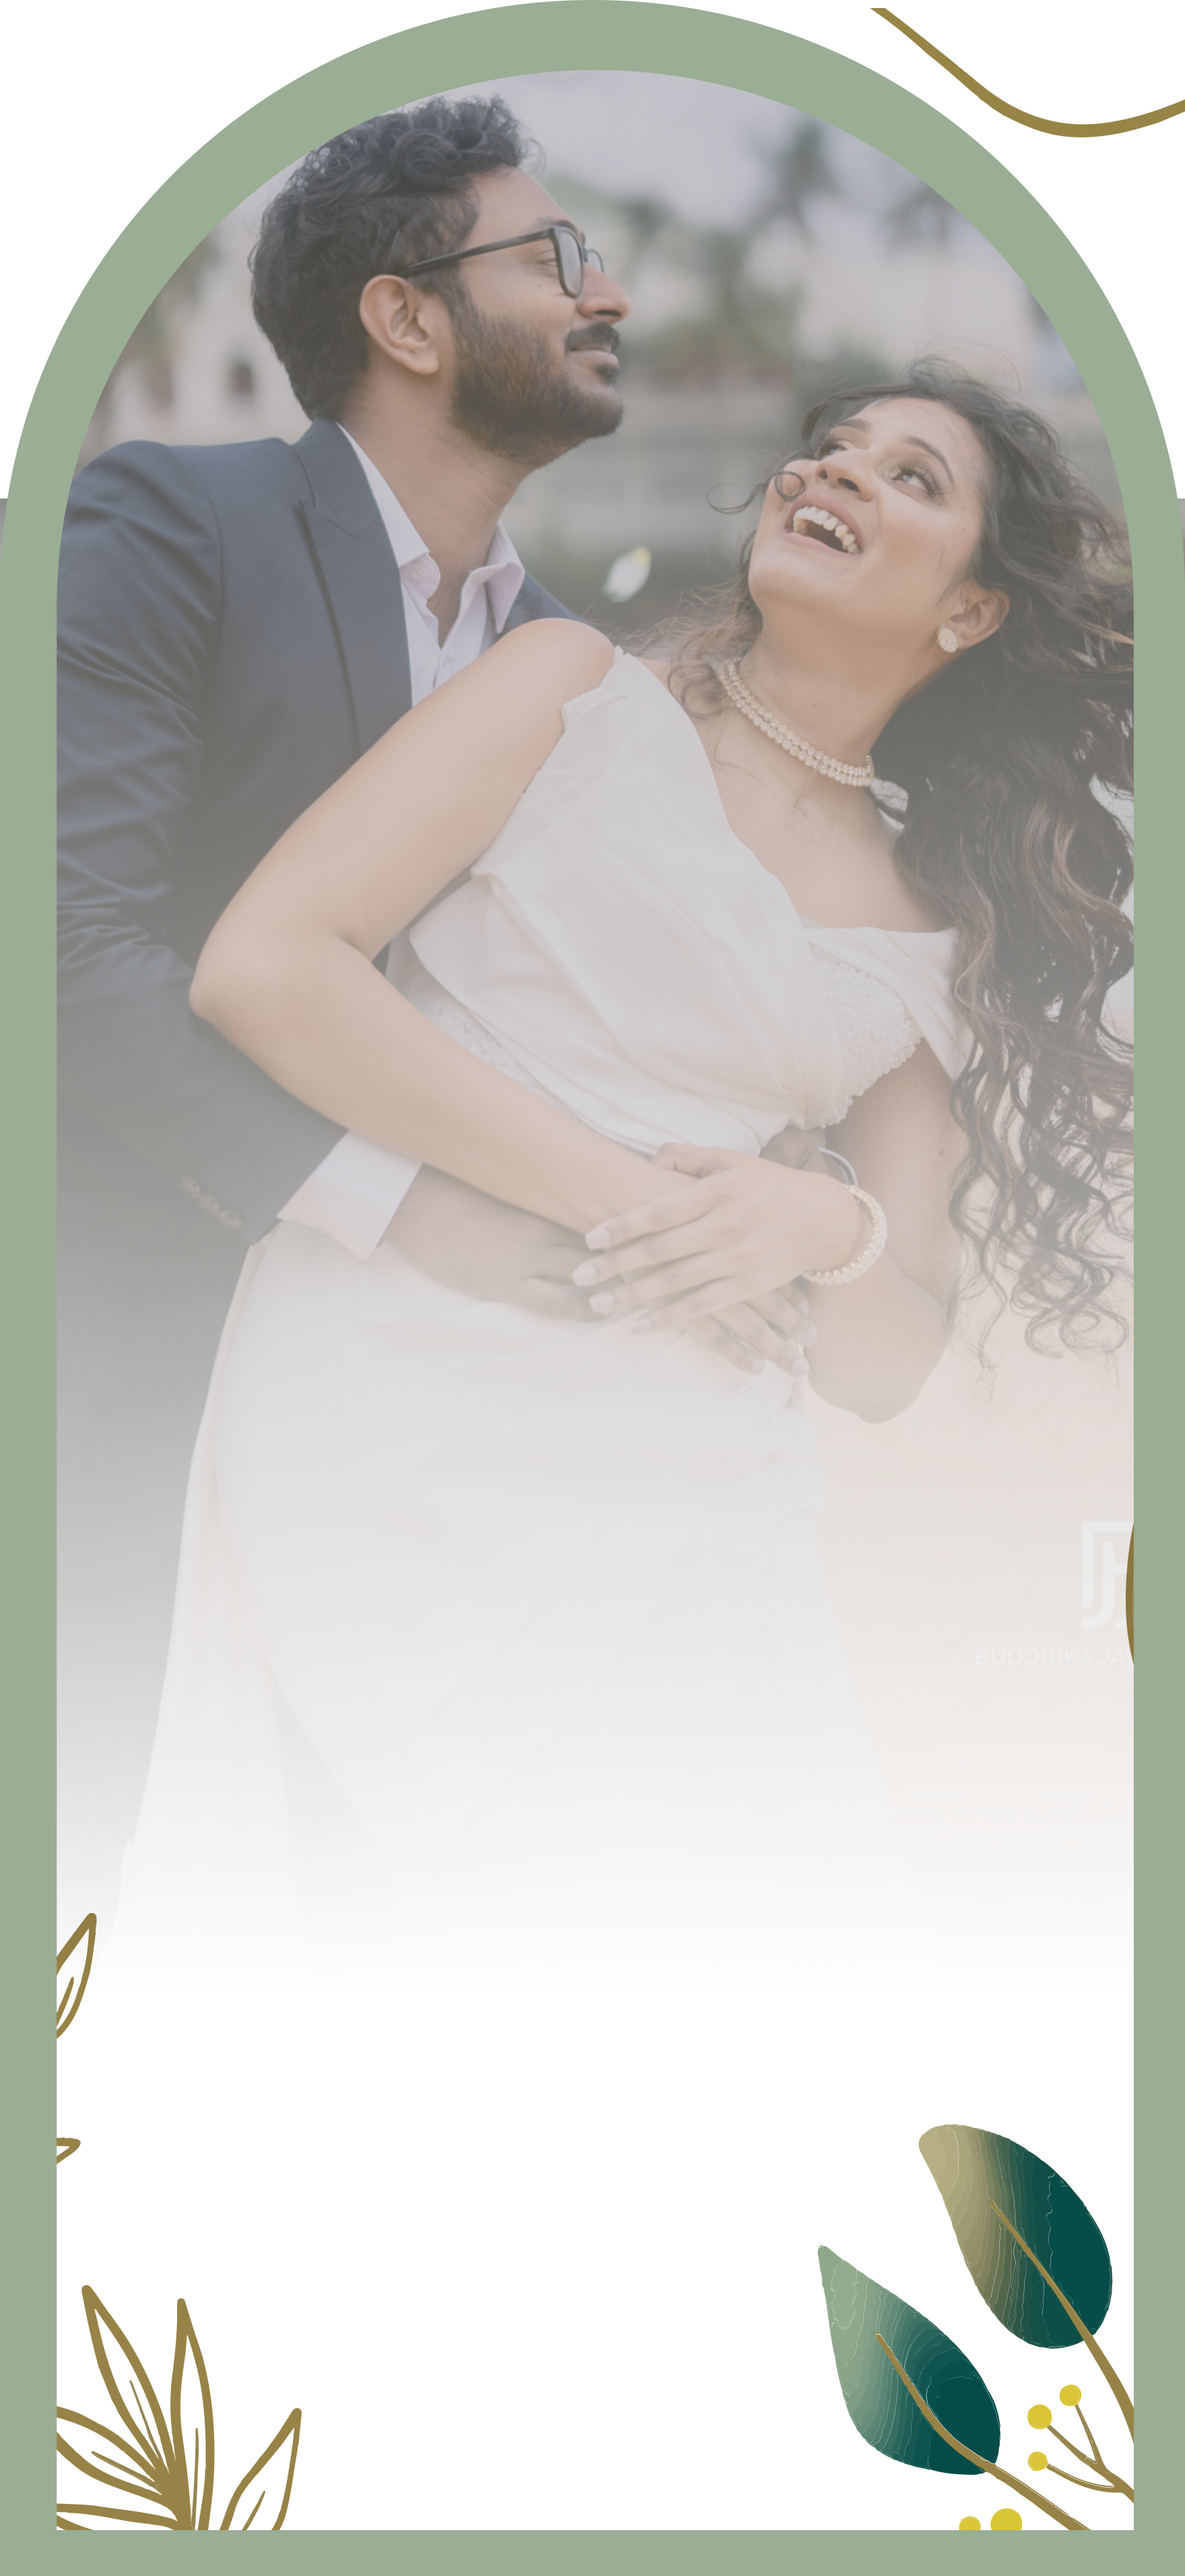
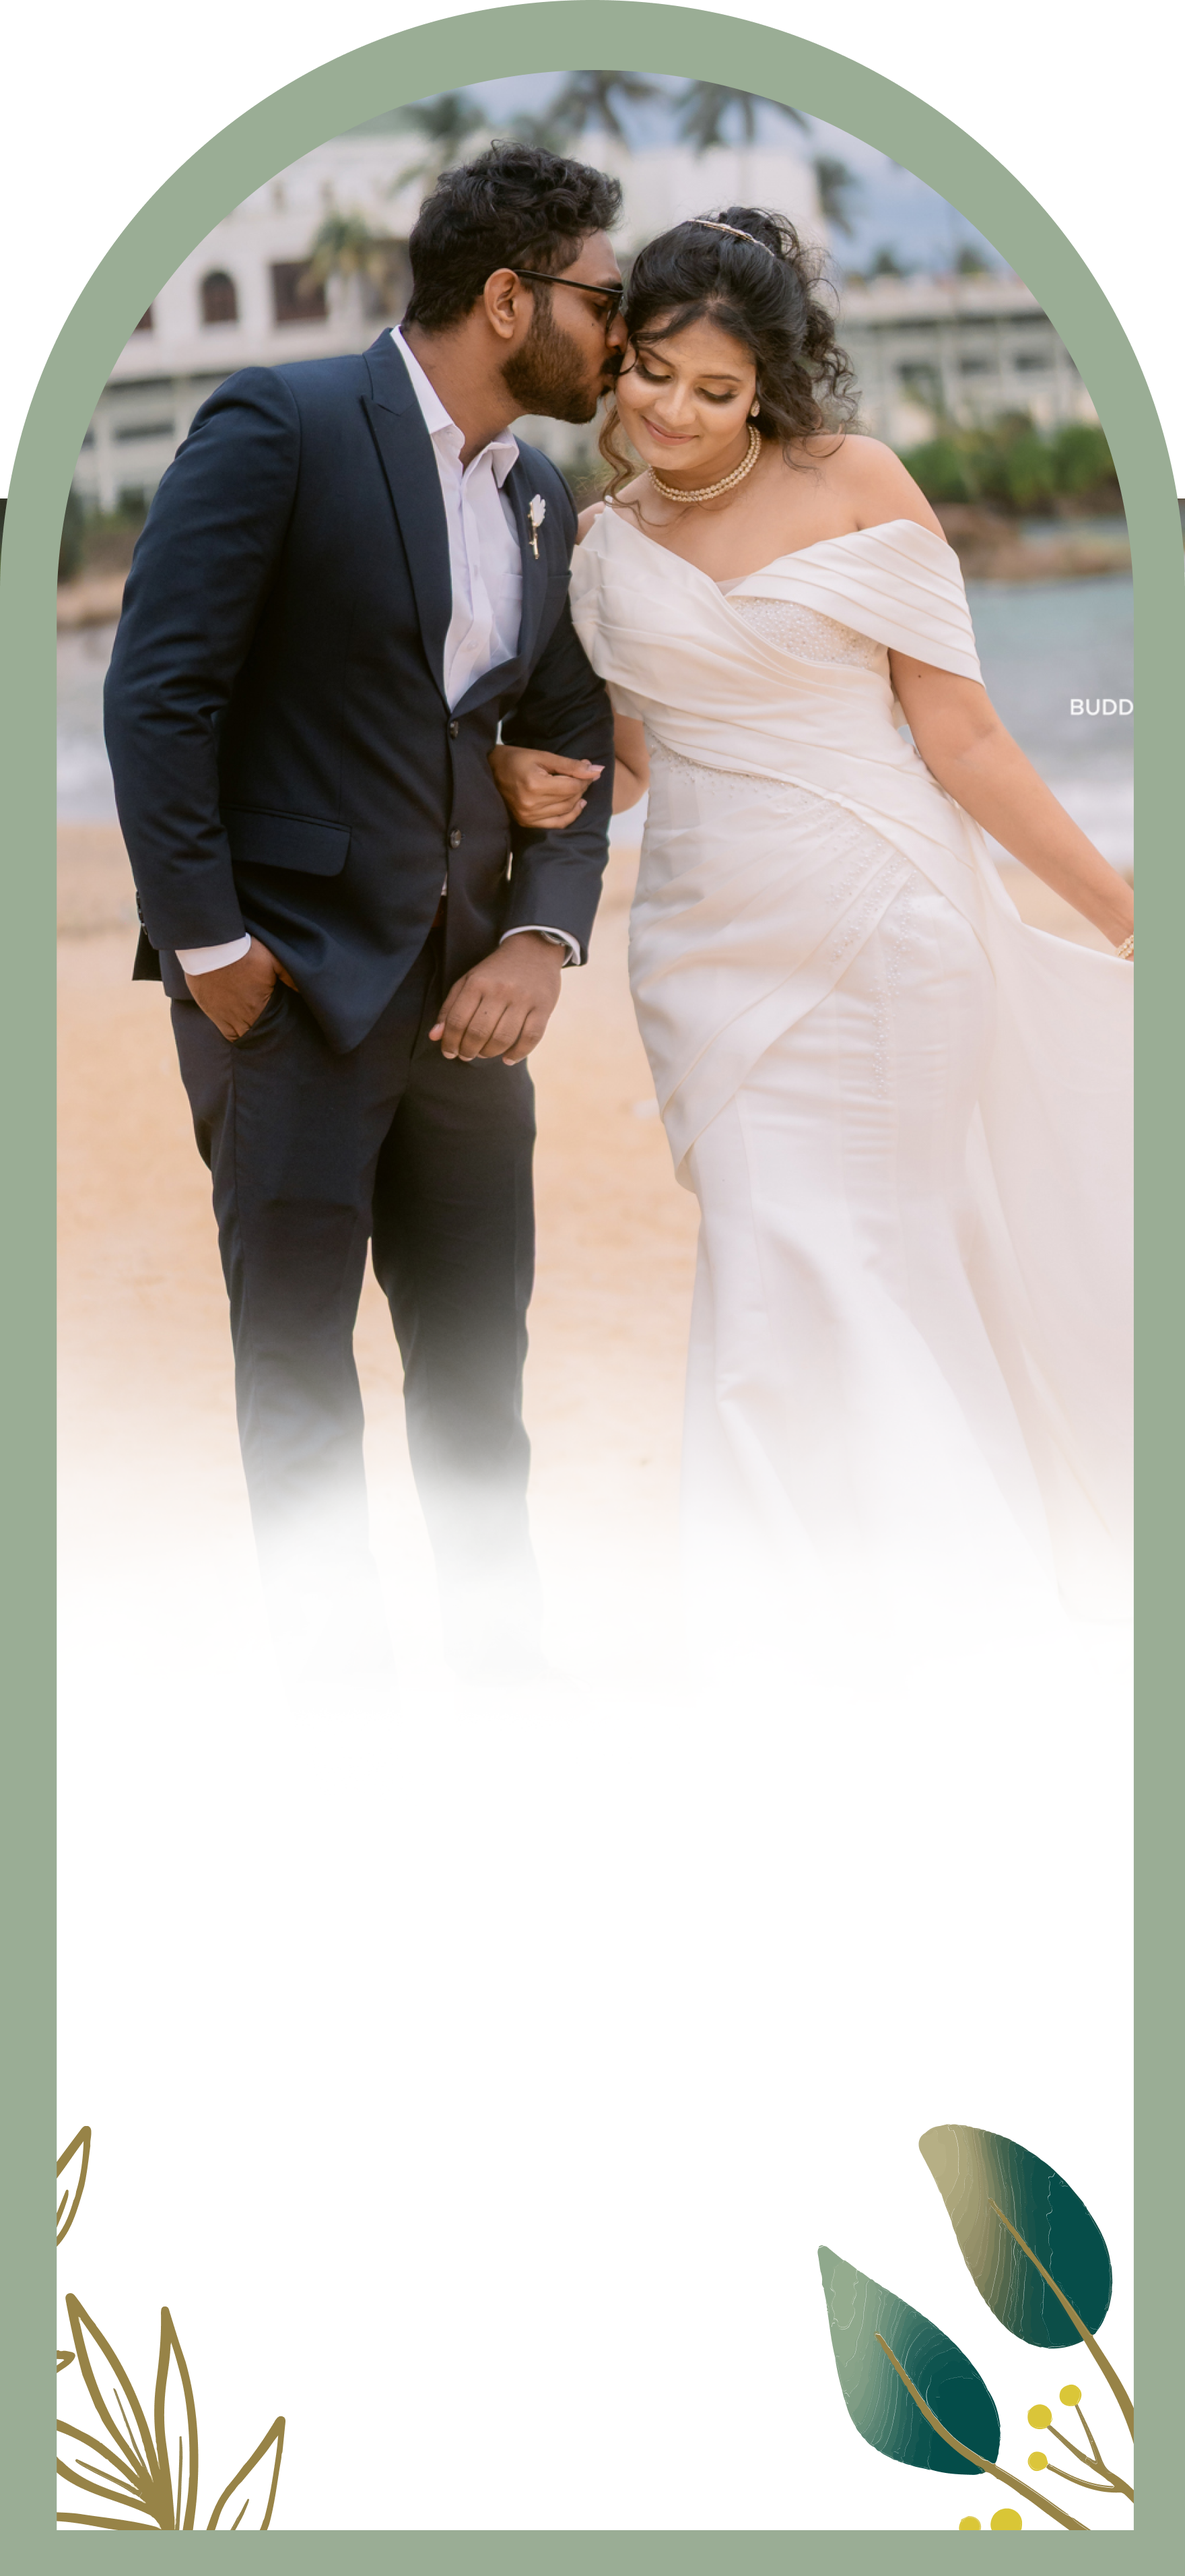
new changes- image change. remove boarder.

diff --git a/src/components/sections/Details.tsx b/src/components/sections/Details.tsx
@@ -132,10 +132,10 @@ export function Details() {
         >
           <CardHeading>Where</CardHeading>
           <CardBody>
-            <p style={{ margin: '0 0 0.25em', fontWeight: 500 }}>
+            <p style={{ margin: '0 0 0.25em', fontWeight: 500, color: '#000' }}>
               Mandakini Club House
             </p>
-            <p style={{ margin: 0, color: 'var(--color-sage-400)' }}>
+            <p style={{ margin: 0, color: '#000' }}>
               Divulapitiya, Sri Lanka
             </p>
           </CardBody>

diff --git a/src/components/sections/SaveTheDate.tsx b/src/components/sections/SaveTheDate.tsx
@@ -146,7 +146,7 @@ export function SaveTheDate() {
           alignItems: 'center',
           gap: 'clamp(0.6rem, 2vw, 1rem)',
           padding: '0 clamp(1.5rem, 5vw, 2.5rem)',
-          marginTop: 'clamp(6rem, 20vh, 12rem)',
+          marginTop: 'clamp(8rem, 28vh, 16rem)',
         }}
       >
         {/* Save the Date heading */}

diff --git a/src/components/sections/Invitation.tsx b/src/components/sections/Invitation.tsx
@@ -42,7 +42,8 @@ export function Invitation() {
         flexDirection: 'column',
         alignItems: 'center',
         
-        justifyContent: 'center',
+        justifyContent: 'flex-end',
+        paddingBottom: 'clamp(6rem, 18vh, 12rem)',
         paddingTop: 0,
         position: 'relative',
         overflow: 'hidden',

diff --git a/src/components/ScrollProgressBar.tsx b/src/components/ScrollProgressBar.tsx
@@ -5,7 +5,7 @@ export function ScrollProgressBar() {
   const { currentIndex, total } = useSwiper();
 
   const progress = total > 1 ? currentIndex / (total - 1) : 0;
-  const visible  = currentIndex > 0;
+  const visible  = currentIndex === total - 1;
 
   return (
     <AnimatePresence>
